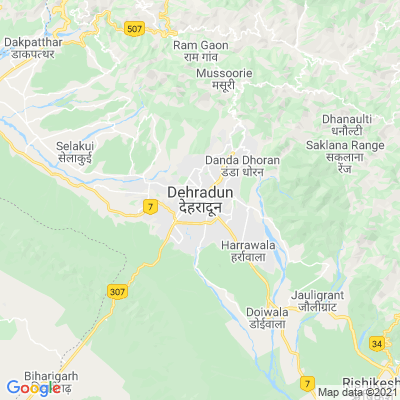
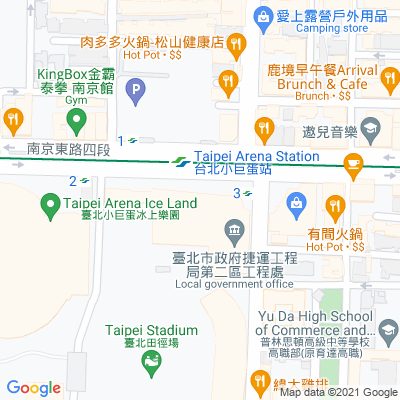
20211021

diff --git a/Direction.html b/Direction.html
@@ -1,0 +1,1 @@
+Step1:<br> 行走距離: 0.3 km所需時間: 1 min<br> 導航: Head <b>north</b> on <b>新生街</b> toward <b>新生街80巷</b><div style="font-size:0.9em">Pass by 明記工具五金行 (on the right)</div><br><br>Step2:<br> 行走距離: 0.5 km所需時間: 2 mins<br> 導航: Turn <b>left</b> onto <b>中山北路一段</b>/<wbr/><b>101縣道</b><br><br>Step3:<br> 行走距離: 0.2 km所需時間: 1 min<br> 導航: Continue straight onto <b>中山北路一段</b>/<wbr/><b>北1鄉道</b><br><br>Step4:<br> 行走距離: 47 m所需時間: 1 min<br> 導航: Turn <b>right</b> onto <b>中山北路一段212巷</b><div style="font-size:0.9em">Destination will be on the left</div><br><br>

diff --git a/googleMapPhoto.py b/googleMapPhoto.py
@@ -1,21 +1,33 @@
 from __future__ import print_function
 from io import BytesIO
+from pprint import pprint
 import os, base64
 import PIL.Image
 import requests
 import matplotlib.pyplot
+import googlemaps
 
 # url variable store url
 url = "https://maps.googleapis.com/maps/api/staticmap?"
   
 # center defines the center of the map,
 # equidistant from all edges of the map. 
-center = "Dehradun"
-
 api_key = 'AIzaSyAUPAr7xVEf5TqH7xzJJAkWBHSLEB3NQ-g'
+
+gmaps = googlemaps.Client(key=api_key)
+
+# citys = ["台北市", "基隆市", "新北市", "連江縣", "宜蘭縣", "新竹市", "新竹縣", "桃園市",
+# 		"苗栗縣", "台中市", "彰化縣", "南投縣", "嘉義市", "嘉義縣", "雲林縣", "台南市",
+# 		"高雄市", "澎湖縣", "金門縣", "屏東縣", "台東縣", "花蓮縣"]
+
+home = ["台北體育館"]
+home_result = gmaps.geocode(home)
+home_loc = home_result[0]['geometry']['location']
+center = str(home_loc['lat'])+","+str(home_loc['lng'])
+
 # zoom defines the zoom
 # level of the map
-zoom = 10
+zoom = 17
 size = '400x400'
 
 url = url + "center=" + center + "&zoom=" +\

diff --git a/googleMapDirection.py b/googleMapDirection.py
@@ -1,0 +1,27 @@
+import googlemaps
+import webbrowser
+import os
+from pprint import pprint
+
+api_key = 'AIzaSyAUPAr7xVEf5TqH7xzJJAkWBHSLEB3NQ-g'
+gmaps = googlemaps.Client(api_key)
+address = "新北市淡水區文化里6鄰新生街20-3號3樓"
+destination = "水碓籃球場"
+directions = gmaps.directions(address, destination)
+# pprint(directions)
+html_str = ""
+i=1
+for step in directions[0]['legs'][0]['steps']:
+    html_str+= "Step"+str(i)+":<br> 行走距離: "+step['distance']['text']+"所需時間: "+step['duration']['text']+"<br> 導航: "+str(step['html_instructions'])+"<br><br>"
+    # print("Step"+str(i))
+    # print("行走距離: "+step['distance']['text']+"所需時間: "+step['duration']['text'])
+    # print("導航: "+str(step['html_instructions']))
+    # print()
+    i+=1
+
+Html_file= open("Direction.html","w",encoding='utf-8')
+Html_file.write(html_str)
+Html_file.close()
+
+filename = 'file:///'+os.getcwd()+'/' + 'Direction.html'
+webbrowser.open_new_tab(filename)

diff --git a/test.py b/test.py
@@ -1,0 +1,25 @@
+import webbrowser
+import os
+
+html_str = """
+<table border=1>
+     <tr>
+       <th>Number</th>
+       <th>Square</th>
+     </tr>
+     <indent>
+     <% for i in range(10): %>
+       <tr>
+         <td><%= i %></td>
+         <td><%= i**2 %></td>
+       </tr>
+     </indent>
+</table>
+"""
+
+Html_file= open("foo.html","w",encoding='utf-8')
+Html_file.write(html_str)
+Html_file.close()
+
+filename = 'file:///'+os.getcwd()+'/' + 'foo.html'
+webbrowser.open_new_tab(filename)
